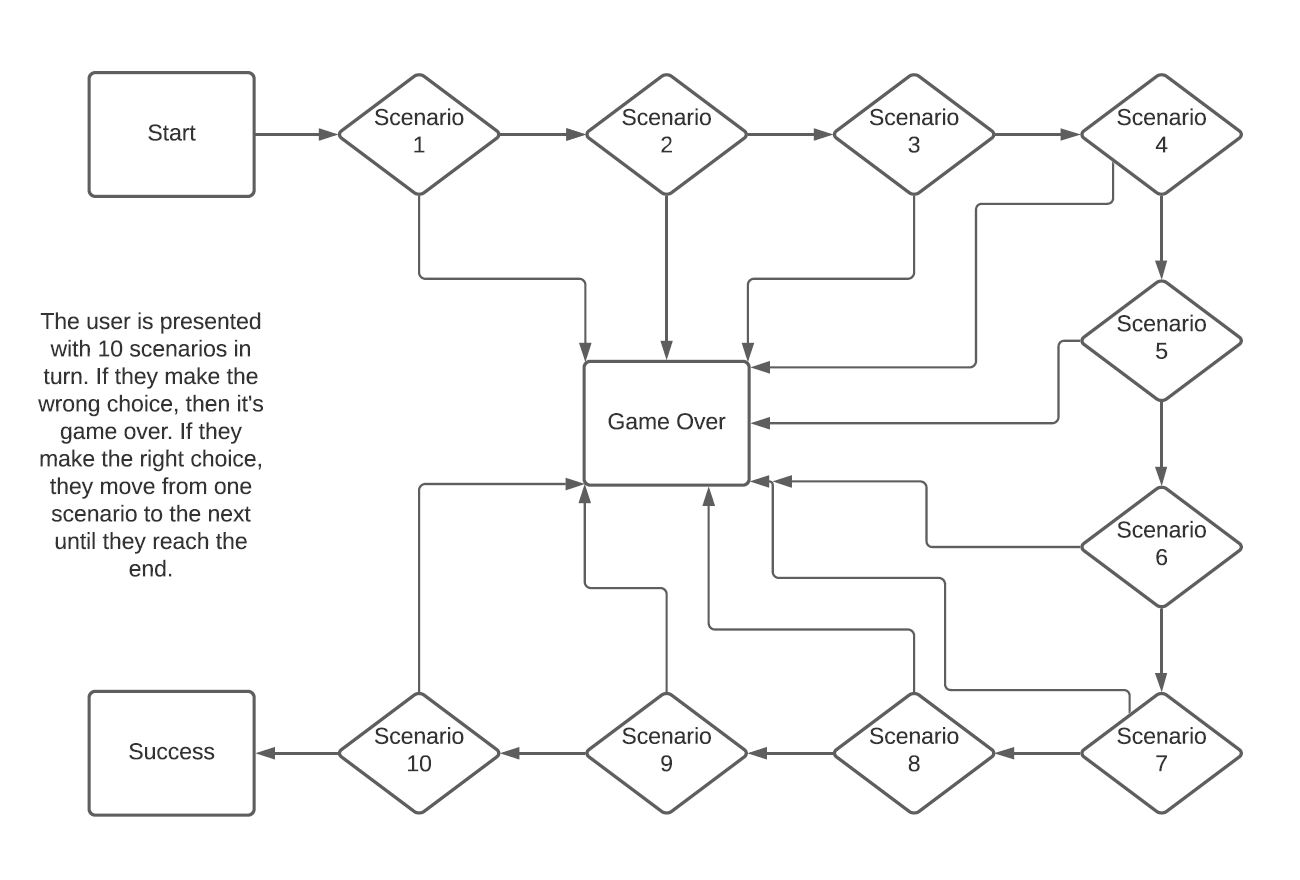
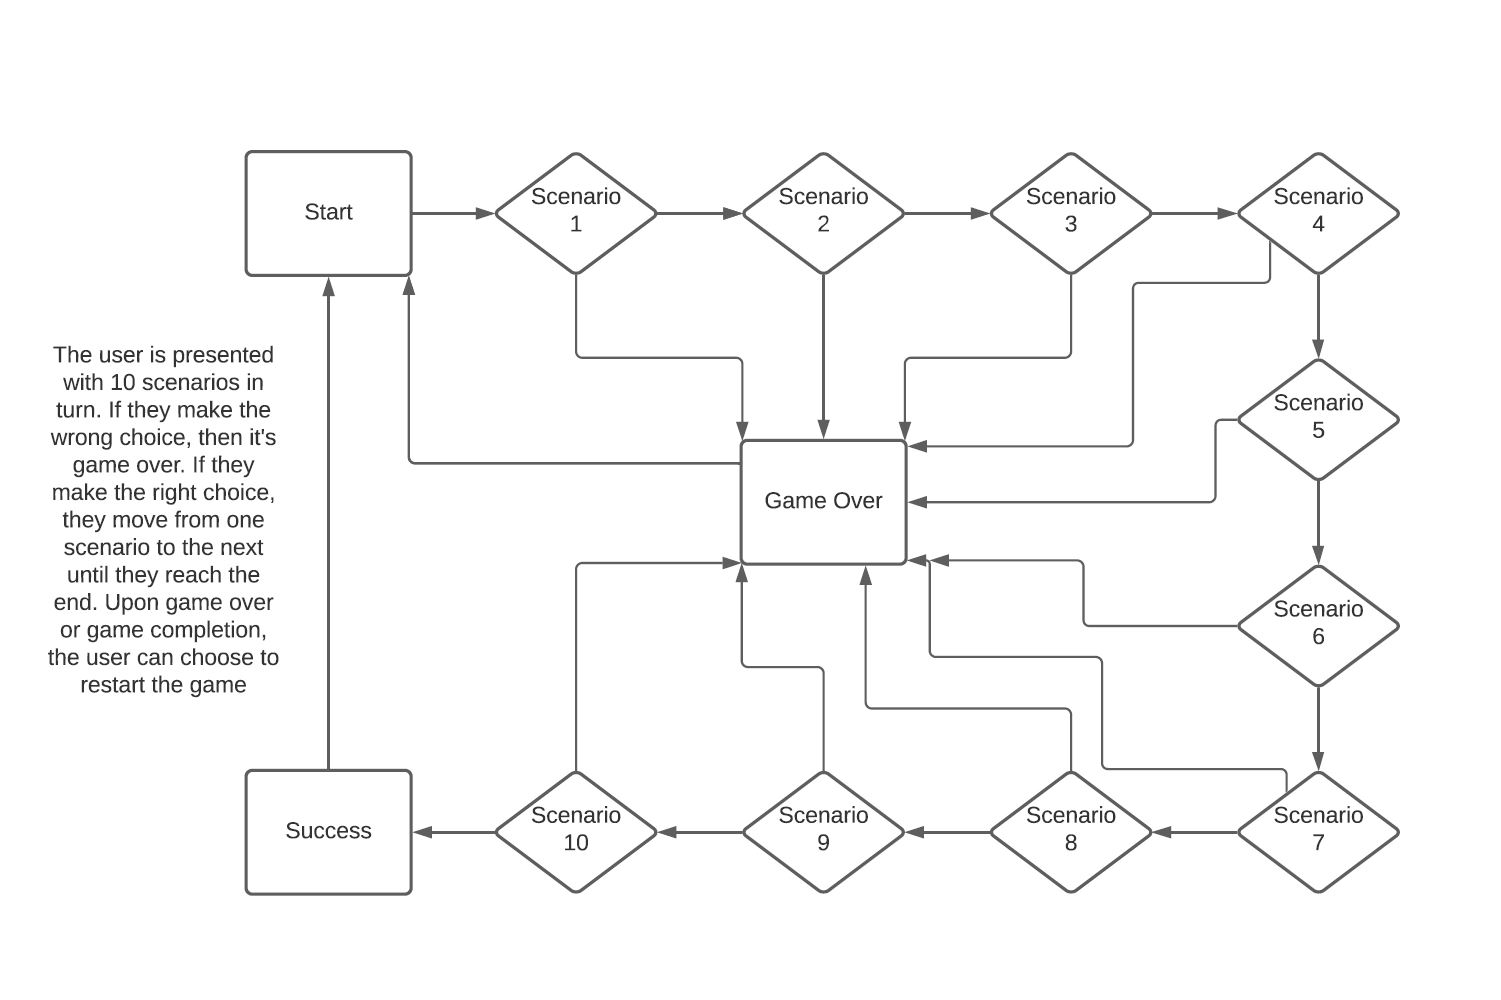
Update UX and bugs sections of README

diff --git a/README.md b/README.md
@@ -6,22 +6,22 @@ Driving Safely is a game where users attempt to make it successfully through all
 
 ## UX
 
-I've designed the app to function like an interactive story, whereby users will be presented with choices as they progress through the scenarios, and depending on the choice made this will determine whether the story progresses or not. Whether a right or wrong choice is made, the game shows a corresponding answer and so is also educational as well. If the user makes a wrong choice and this causes a game over condition, it will also provide details of the relevant part of The Highway Code that explains this. The game is played from an emulated terminal and so is command line based, input is via keyboard entry. 
+I've designed the game to function like an interactive story, whereby users will be presented with choices as they progress through the scenarios, and depending on the choice made this will determine whether the story progresses or not. Whether a right or wrong choice is made, the game shows a corresponding answer and so is also educational as well. If the user makes a wrong choice and this causes a game over condition, it will also provide details of the relevant part of The Highway Code that explains this. The game is played from an emulated terminal and so is command line based, input is via keyboard entry. 
 
-The app has functions for the following:
+The game has functions for the following:
 - To handle the game start
 - Text input with validation when having to make a choice
 - Loading of the next scenario
 - Displaying of current scenario content and evaluating the choice made
 - Handling a game over condition 
-- Handling game successful completion 
+- Handling game successful completion
+- Asking whether the user would like to play again 
 
-As shown in the logic flow below, if the user makes the correct choice they progress onto the next scenario but if they don't, then a game over condition occurs. The user is then asked whether they'd like to try again. If the user successfully gets through all scenarios then a game completion message is displayed.
-
+As shown in the logic flow below, if the user makes the correct choice they progress onto the next scenario but if they don't, then a game over condition occurs. The user is then asked whether they'd like to try again. If the user successfully gets through all scenarios then a well done message is displayed which also asks whether they'd like to play again. 
 
 ![Image of flow diagram](https://raw.githubusercontent.com/domsq/project-driving-safely-game/main/screenshots/flow_diagram.JPG)
 
-As the app is command line based, there are no graphics or colour, etc present however I have inserted some ascii art to make the display a bit more visually pleasing for the user. 
+As the game is command line based, there are no graphics or colour, etc present however I have inserted some ascii art to make the display a bit more visually pleasing for the user. 
 
 User stories as follows:
 
@@ -44,7 +44,7 @@ User stories as follows:
 
 ### Existing Features
 
-The app has a button at the top to restart it at any point (initial loading of the page starts the app automatically):
+The game has a button at the top to restart it at any point (initial loading of the page starts the app automatically):
 
 ![Image of run button](https://raw.githubusercontent.com/domsq/project-driving-safely-game/main/screenshots/run_button.JPG)
 
@@ -68,6 +68,10 @@ If the user successfully makes it through all scenarios, a "well done" message i
 
 ![Image of game completion message](https://raw.githubusercontent.com/domsq/project-driving-safely-game/main/screenshots/well_done.JPG)
 
+Upon either a game over condition or successful game completion, the user is presented with an option to play again:
+
+![Image of play again prompt](https://raw.githubusercontent.com/domsq/project-driving-safely-game/main/screenshots/play_again.JPG)
+
 ### Features Left to Implement
 
 - Add additional scenarios and \ or choice options 
@@ -90,7 +94,7 @@ If the user successfully makes it through all scenarios, a "well done" message i
 ## Testing
 
 -	A new driver is looking to test their road safety knowledge<br><br>
-The user will land on the intro message which explains what the app is about:<br>
+The user will land on the intro message which explains what the game is about:<br>
 ![Image of intro message](https://raw.githubusercontent.com/domsq/project-driving-safely-game/main/screenshots/intro_message.JPG)<br>
 Once they've entered a name, they'll move onto the scenarios to play through:<br>
 ![Image of a scenario](https://raw.githubusercontent.com/domsq/project-driving-safely-game/main/screenshots/scenario.JPG)<br><br>
@@ -101,21 +105,27 @@ The user has various scenarios to play through, to test their knowledge:<br>
 There are various scenarios which are based on actual road safety questions for the user to attempt:<br>
 ![Image of a scenario](https://raw.githubusercontent.com/domsq/project-driving-safely-game/main/screenshots/scenario.JPG)<br><br>
 
-The app has been tested using the following browsers:<br>
+The game has been tested using the following browsers:<br>
 - Google Chrome<br>
 - Microsoft Edge<br>
 - Mozilla Firefox<br><br>
 
-I played through the app multiple times from beginning to end to ensure the logic flows as expected. I also had my wife test the game to make sure it ran okay for her. 
-When tested on a PC, the app displays as expected and functions as required. 
+I played through the game multiple times from beginning to end to ensure the logic flows as expected. I also had my wife test the game to make sure it ran okay for her. 
+When tested on a PC, the game displays as expected and functions as required. 
 
-The app was also tested on both Samsung Galaxy S20 FE 5G and Oppo Find X2 Lite handsets and while it is playable on a mobile phone, it is best experienced using a PC browser. 
+The game was also tested on both Samsung Galaxy S20 FE 5G and Oppo Find X2 Lite handsets and while it is playable on a mobile phone, it is best experienced using a PC browser. 
 
 I tested that when presented with a choice in the game, the text input has to be a valid option as otherwise you are presented with a "Not a valid choice, please try again" message. You are then prompted to input text again, until a valid choice has been entered.
 
 The scenarios are loaded in turn as expected and getting through all of them successfully triggers a game completion condition. If a wrong choice is picked, the game over condition is triggered. 
 
 ### Bugs 
+
+While creating my application, the following bugs popped up:<br>
+- Initially when setting up the logic to evaluate the user choices for the scenarios, I tried to use syntax such as "if choice == "a" or "A". This doesn't work, so I rather set input to be made lowercase prior to being evaluated.
+- Another issue I encountered was getting text to display correctly when in Heroku, without any wrapping of words being split part way through. This was corrected through carefully limiting how much text is shown per line.
+- When initially trying to reference the dictionary keys for the scenario objects, from within the show_scenario function, this wouldn't work due to my forgetting the required "[ ]" characters. Once this was corrected, the scenarios would then load as expected.
+- When creating and testing the play_again function, it didn't initially work due to the fact that it wasn't resetting the scenario index each time, so the value was getting out of sync. This was corrected through referencing the global variable for the scenario index and setting it accordingly.
 
 
 ### Validator Testing
